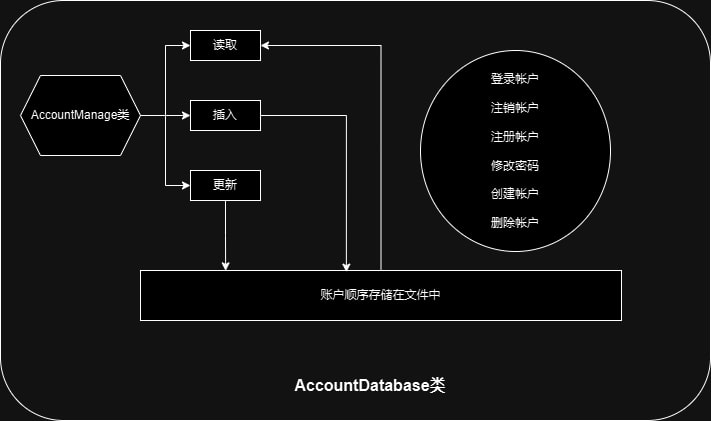
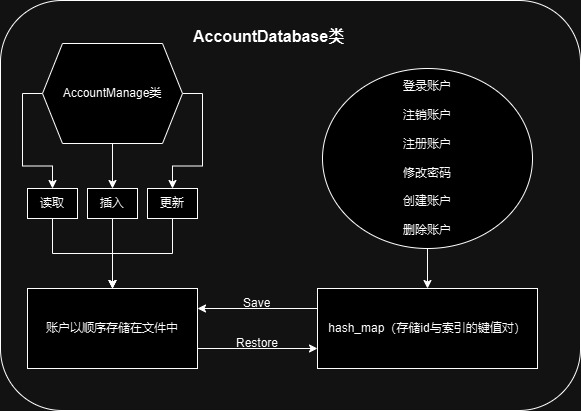
补充了总体设计文档的功能设计 修改了AccountDatabase的图

diff --git a/总体设计文档.md b/总体设计文档.md
@@ -32,17 +32,29 @@
 
 ## 功能设计
 #### 图书模块：
-功能见上文
+- 检索图书：做了五个函数分别对应`All`，`ISBN`，`BookName`，`Author`，`Keyword`，依据参数选择调用的函数。只有ISBN可以找到对应块再进行查找，其余函数都要遍历整个块链
+- 购买图书：查询图书是否存在，若存在则检查权限和库存，可购买则修改库存，并将收入记录到`MyFinance`中
+- 选择图书：查询图书是否存在，若存在则将`selected_book_idx`修改为对应图书的索引，若不存在则插入新书
+- 修改图书信息：检查是否选中，已选中则根据索引取出对应图书。做了五个函数分别对应`ISBN`，`BookName`，`Author`，`Keyword`，`Price`，依据参数依次调用对应的函数
+- 图书进货：检查是否选中，已选中则修改库存，并将支出记录到`MyFinance`中
 
 ![图书模块](图书模块.jpg)
 
 #### 账户模块：
-功能见上文
+- 登录账户：查询账户是否存在，若账户存在且满足登录条件则将账户压入登录栈，修改`Myuser`中当前的权限
+- 注销账户：若登录栈非空，弹出登录栈的头元素，修改`Myuser`中当前的权限
+- 注册账户：查询id是否存在，若无则注册成功，在`unordered_map`中加入新索引
+- 修改密码：查询id是否存在，若账户存在且满足修改条件则修改对应账户的密码
+- 创建账户：基本与注册相同，多了对权限的检查
+- 删除账户：查询id是否存在 + 查询id是否在登录栈中，若id存在且未登录，删除账户，在`unordered_map`中删除对应元素，销毁索引
 
 ![账户模块](账户模块.jpg)
 
 #### 日志模块：
-功能见上文
+- 财务记录查询：检查`count`是否合法，若合法则遍历后`count`次财务记录，计算收支
+- 生成财务报表：从头至尾遍历财务记录，输出编号与收支情况
+- 生成全体员工工作情况报告指令：从头至尾遍历操作记录，只输出权限不小于3的操作，输出编号、用户id与操作
+- 生成日志：从头至尾遍历操作记录，输出编号、用户id与操作，如操作为`import`，`buy`则输出对应收支
 
 ![收支模块](收支模块.jpg)
 ![日志模块](日志模块.jpg)
@@ -71,8 +83,9 @@
 #### AccountDatabase类（管理全部账户信息）
 在`account_storage.h`中声明并定义
 在外存中储存全部的用户信息
+以`unordered_map`存储用户id与账户索引的键值对
 成员函数实现了用户系统要求实现的指令
-即登录帐户，注册账户，修改密码，创建账户和删除账户
+即登录帐户，注销账户，注册账户，修改密码，创建账户和删除账户
 
 #### FinanceDatabase类（储存用户信息）
 在`log_storage.h`中声明并定义
@@ -95,11 +108,16 @@
 ## 数据库设计
 图书：以`Book`类封装图书信息，包括ISBN、BookName、Author、Keyword、库存、价格
 将`BookDatabase`类作为图书数据库，在外存中以块状链表存储`Book`类，以ISBN字典序升序存储
+存储以块状链表的方式实现，`Block`链表存放在内存中
+退出系统时将`Block`链表备份到文件里，重启时读取文件，重新构建链表
 
 账户：以`Account`类封装账户信息，包括UserId、Password、Username、Privilege
 将`AccountDatabase`类作为账户信息库，在外存中以顺序存储`Account`类
+在`unordered_map`中存储用户id与索引的键值对，便于查询
+退出系统时会将`unordered_map`里的全部信息备份到文件中，重启时会将文件中的信息转移至`unordered_map`中
 
-收支：将整型变量`int`写入到文件中，顺序储存，负数代表支出，正数代表收入
+收支：将浮点型变量`double`写入到文件中，顺序储存，负数代表支出，正数代表收入
+在查询财务记录时，访问后`count`次记录即可
 
 日志：以`Log`封装日志信息，包括UserId、操作名
 将`LogDatabase`类作为日志信息库，在外存中顺序储存`Log`类
@@ -108,7 +126,7 @@
 ## 类、结构体设计：
 `Book`类：封装图书信息
 `BookManage`类：为了方便文件存储，封装了一些基本的文件操作，包括插入、修改、读取功能
-`Block`结构体：存储最大ISBN，用于实现块状链表
+`Block`结构体：存储最大ISBN与其中`Book`的索引，用于实现块状链表
 `BookDatabase`类：图书信息库，提供所有对图书的操作
 `Account`类：封装账户信息
 `AccountManage`类：为了方便文件存储，封装了一些基本的文件操作，包括插入、修改、读取功能
